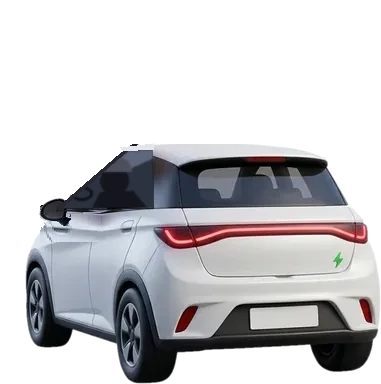
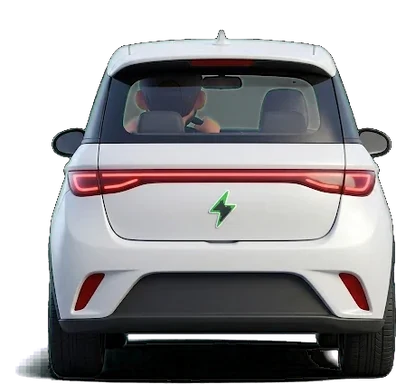
MARGOUSH 3D: BYD de Cepi visto de atrás con polvo, sin cartelitos de instrucciones, Messi Goku solo al elegir a Marine, boina del mini Facu
Claude-Session: https://claude.ai/code/session_015n5LzdVvbsG99sjKFqQKCk

diff --git a/3d/js/chase.js b/3d/js/chase.js
@@ -141,6 +141,12 @@ export function createChase({ game, input, audio, assets, renderer, banner, upda
     const CEPI_DRIVE = C.userData.key;
     const mark = mk(new T.RingGeometry(0.55, 0.78, 28), new T.MeshBasicMaterial({ color: L('#ff4d5e'), transparent: true, opacity: 0.85, depthWrite: false }));
     mark.rotation.x = -Math.PI / 2; mark.visible = false; mark.renderOrder = 2;
+    // Polvo que levantan las ruedas traseras del BYD (va de atrás: las ruedas no se ven girar, el polvo vende la velocidad)
+    const dustTex = canvasTex(64, 64, (g) => { const r = g.createRadialGradient(32, 32, 2, 32, 32, 30); r.addColorStop(0, 'rgba(236,222,214,.85)'); r.addColorStop(1, 'rgba(236,222,214,0)'); g.fillStyle = r; g.fillRect(0, 0, 64, 64); }, 1, 1);
+    const dustMat = keep(new T.SpriteMaterial({ map: dustTex, transparent: true, depthWrite: false }));
+    const dust = [];
+    for (let i = 0; i < 28; i++) { const sp = new T.Sprite(dustMat.clone()); keep(sp.material); sp.visible = false; scene.add(sp); dust.push({ sp, t: 9, life: 0.6, v: new T.Vector3() }); }
+    let dustAt = 0, dustI = 0;
     const ball = mk(new T.SphereGeometry(0.2, 14, 10), new T.MeshLambertMaterial({ color: L('#e6f04a'), emissive: L('#6a6a00') })); ball.visible = false;
     const track = buildTrack();
     const obs = track.obstacles.map(o => ({ ...o, ...OBST[o.kind], m: sprite(OBST[o.kind].tex, OBST[o.kind].h, OBST[o.kind].slip ? 0.6 : 0.9), dead: false, vy: 0, y: 0, spin: 0 }));
@@ -168,7 +174,6 @@ export function createChase({ game, input, audio, assets, renderer, banner, upda
       setTex(C, pose === 'drive' ? CEPI_DRIVE : pose === 'windup' ? 'chase_cepi_windup' : pose === 'throw' ? 'chase_cepi_throw' : 'chase_cepi_dead');
     };
     game.state = 'chase';
-    banner('¡SE ESCAPA CEPI!', 'Se lleva la llave en su BYD. Doblá con el joystick, SALTO para saltar, 👊 rompe cosas.', 3.6);
 
     function hurt(txt) {
       if (inv > 0 || dashT > 0 || powT > 0) return;
@@ -263,7 +268,7 @@ export function createChase({ game, input, audio, assets, renderer, banner, upda
         const want = stunT > 0 ? 6 : 8 + Math.sin(t * 0.7) * 1.8;
         gap += (want - gap) * dt * 0.8;
         cx += (Math.sin(t * 0.55) * 2.3 - cx) * dt * 1.2;
-        if (!shot && stunT <= 0 && windT <= 0) { throwT -= dt; if (throwT <= 0) { windT = CHASE.windup; hintE.classList.remove('hidden'); cepiTo('windup'); } }
+        if (!shot && stunT <= 0 && windT <= 0) { throwT -= dt; if (throwT <= 0) { windT = CHASE.windup; cepiTo('windup'); } } // sin cartel: se ve a Cepi asomarse y la marca roja en el piso
         if (windT > 0) {
           windT -= dt;
           if (windT <= 0) {
@@ -335,6 +340,25 @@ export function createChase({ game, input, audio, assets, renderer, banner, upda
       const meta = assets.meta(C.userData.key), w0 = C.userData.h * meta.w / meta.h;
       C.scale.set(w0 * (1 - 0.22 * Math.sin(Math.PI * k)), C.userData.h * (1 + 0.06 * Math.sin(Math.PI * k)), 1);
       C.rotation.z = parked ? 0 : carTilt;
+      // polvo de las ruedas (más con más velocidad; nada estacionado)
+      dustAt -= dt;
+      if (!parked && dt > 0 && dustAt <= 0) {
+        dustAt = 0.06;
+        const wHalf = C.userData.h * assets.meta(C.userData.key).w / assets.meta(C.userData.key).h * 0.36;
+        for (const sd of [-1, 1]) {
+          const d = dust[dustI++ % dust.length];
+          d.t = 0; d.life = 0.5 + Math.random() * 0.25; d.sp.visible = true;
+          d.sp.position.set(cx + sd * wHalf + (Math.random() - 0.5) * 0.3, 0.25, carZ + 0.5);
+          d.v.set(sd * (0.6 + Math.random() * 0.8), 0.6 + Math.random() * 0.6, v * 0.35 + 2);
+        }
+      }
+      for (const d of dust) {
+        if (!d.sp.visible) continue;
+        d.t += dt; const k = d.t / d.life;
+        if (k >= 1) { d.sp.visible = false; continue; }
+        d.sp.position.addScaledVector(d.v, dt);
+        const sc = 0.5 + k * 1.4; d.sp.scale.set(sc, sc, 1); d.sp.material.opacity = 0.55 * (1 - k);
+      }
       for (const o of obs) if (o.m.visible) { place(o.m, o.x, o.y, -o.s); if (o.dead && o.m.userData.sh) o.m.userData.sh.visible = false; }
       for (const p of picks) if (!p.got) { place(p.m, p.x, p.y + Math.sin(t * 4 + p.s) * 0.15, -p.s); p.m.rotation.y = Math.sin(t * 3 + p.s) * 0.6; }
       for (let i = pops.length - 1; i >= 0; i--) {

diff --git a/3d/js/main.js b/3d/js/main.js
@@ -256,7 +256,6 @@ function endIntro() {
   game.state = 'playing';
   audio.music(game.heroId);
   input.reset();
-  game.banner('¡SALVÁ A MARGOT!', 'Seguí la calle hasta el galpón de BIG CHAKY →');
 }
 
 // ---------- zonas ----------
@@ -266,8 +265,7 @@ function openGate(i) {
   g.open = true;
   g.t = 0;
   fx.shake(0.35);
-  // Menos carteles: un aviso chico arriba del héroe en vez de un cartel
-  if (game.hero) fx.popup(game.hero.actor.position.clone().setY(3.3), '¡DESPEJADO! SEGUÍ →', '#7ee0c3', { size: 24, life: 1.4, rise: 0.4 });
+  // Sin carteles de instrucciones: el portón que se derrumba ya dice que se puede seguir
   game.ctx.audio?.sfx('crate');
   game.ctx.audio?.sfx('clear');
 }
@@ -278,15 +276,7 @@ function updateZones() {
   for (const g of world.gates) {
     if (!g.open && hp.x > g.x) {
       hp.x = g.x - 1;
-      game.banner('🚧 PASO CERRADO', 'Primero despejá la zona: la banda de BIG CHAKY te espera.');
       break;
-    }
-  }
-  // Al llegar a un portón cerrado, explica que no se salta: hay que despejar la zona
-  for (const g of world.gates) {
-    if (!g.open && Math.abs(hp.x - g.x) < 1.2 && game.time - (game.gateHintAt ?? -99) > 6) {
-      game.gateHintAt = game.time;
-      game.banner('🚧 PASO CERRADO', 'Primero despejá la zona: la banda de BIG CHAKY te espera.');
     }
   }
   const x = hp.x;
@@ -302,8 +292,8 @@ function updateZones() {
       }
       game.waves[w.id] = 'active';
       game.enemies.spawnWave(w.id);
+      // Sin cartel de título por tanda; Facu sigue tirando sus comentarios
       if (w.facu) game.facu.say(w.facu, 3.4);
-      else game.banner(w.title, w.text);
       break;
     }
     if (st === 'active' && game.enemies.alive() === 0) {
@@ -312,18 +302,12 @@ function updateZones() {
       if (w.endsLevel) {
         // El nivel termina al llegar al final de la calle, no apenas cae el último malo
         game.levelExit = true;
-        game.banner('¡LE CONCEPT ES NUESTRO!', 'Seguí hasta el final de la calle para pasar a Francia →', 3.2);
       }
     }
   }
   if (game.levelExit && game.level < LEVELS.length) {
     const end = LEVELS[game.level - 1].maxX - 2.5;
     if (x >= end) { game.levelExit = false; startTransition(); return; }
-    // Flecha que te marca el camino, cada tanto
-    if (game.time - (game.exitHintAt ?? -99) > 2.2) {
-      game.exitHintAt = game.time;
-      fx.popup(new THREE.Vector3(Math.min(end, x + 4), 2.6, hp.z), 'FRANCIA →', '#7ee0c3', { size: 26, life: 1.6, rise: 0.2 });
-    }
   }
   const last = WAVES[WAVES.length - 1];
   if (!game.boss && game.level === 2 && game.waves[last.id] === 'cleared' && x > world.galponX + 6) spawnBoss();
@@ -396,14 +380,12 @@ function endTransition() {
   $('#level-card').classList.remove('travel');
   game.state = 'playing';
   input.reset();
-  game.banner('NIVEL 2: FRANCIA', 'Bienvenue en France · seguí hasta el galpón de BIG CHAKY →');
 }
 game.startTransition = startTransition;
 
 function spawnBoss() {
   game.boss = createBoss(game.ctx, world.bounds.maxX - 14);
   game.banner('👑 BIG CHAKY', '«¡De acá no pasa nadie! ¡La nena se queda conmigo!»');
-  game.banner('CÓMO GANARLE', 'Casi no siente los golpes: pegale cuando brilla (después de embestir o pisotear).', 3.6);
   game.ctx.audio?.music('boss');
   game.ctx.audio?.sfx('roar');
 }

diff --git a/3d/js/facu.js b/3d/js/facu.js
@@ -96,8 +96,21 @@ export function createFacu(ctx) {
   hole.add(rim, pit); hole.visible = false; scene.add(hole);
   const baguette = new THREE.Sprite(new THREE.SpriteMaterial({ map: emojiTex('🥖'), transparent: true, depthWrite: false }));
   baguette.scale.set(0.9, 0.9, 1); baguette.visible = false; scene.add(baguette);
-  const beret = new THREE.Mesh(new THREE.CylinderGeometry(0.32, 0.36, 0.12, 18), new THREE.MeshLambertMaterial({ color: 0x1b1b24 }));
-  beret.visible = false; scene.add(beret);
+  // Boina francesa dibujada (antes era un cilindro que con la luz se veía como un cuadradito gris)
+  const beretTex = (() => {
+    const c = document.createElement('canvas'); c.width = 256; c.height = 128;
+    const g = c.getContext('2d');
+    g.translate(128, 74); g.rotate(-0.12);
+    const body = g.createRadialGradient(-28, -22, 6, 0, 0, 110);
+    body.addColorStop(0, '#4a4658'); body.addColorStop(0.45, '#22202c'); body.addColorStop(1, '#0d0c12');
+    g.fillStyle = body; g.beginPath(); g.ellipse(6, 4, 108, 58, 0, Math.PI * 1.02, Math.PI * 2.02); g.quadraticCurveTo(70, 26, 0, 24); g.quadraticCurveTo(-80, 24, -102, 2); g.fill();
+    g.fillStyle = '#121018'; g.beginPath(); g.ellipse(0, 20, 86, 10, 0, 0, Math.PI * 2); g.fill();     // borde que calza en la cabeza
+    g.fillStyle = 'rgba(255,255,255,0.14)'; g.beginPath(); g.ellipse(-30, -20, 40, 9, -0.2, 0, Math.PI * 2); g.fill(); // brillo de la lana
+    g.strokeStyle = '#0d0c12'; g.lineWidth = 7; g.lineCap = 'round'; g.beginPath(); g.moveTo(10, -38); g.quadraticCurveTo(16, -52, 26, -54); g.stroke(); // piquito
+    const t = new THREE.CanvasTexture(c); t.encoding = THREE.sRGBEncoding; return t;
+  })();
+  const beret = new THREE.Sprite(new THREE.SpriteMaterial({ map: beretTex, transparent: true, depthWrite: false }));
+  beret.scale.set(0.92, 0.5, 1); beret.renderOrder = 3; beret.visible = false; scene.add(beret);
 
   let act = null;          // aparición en curso: { kind, t, ... }
   let jokeIdx = 0, idleT = 0, talkT = 0;
@@ -197,7 +210,7 @@ export function createFacu(ctx) {
         actor.lift = t < 0.35 ? Math.sin(t / 0.35 * Math.PI) * 0.7 : Math.abs(Math.sin(idleT * 5)) * 0.08;
         actor.lean = Math.sin(idleT * 4) * 0.08;
         const p = actor.position;
-        beret.position.set(p.x + 0.02, actor.lift + 1.93, p.z + 0.05);
+        beret.position.set(p.x + 0.03, actor.lift + 1.915, p.z + 0.12);
         baguette.position.set(p.x - 0.55, actor.lift + 1.05, p.z + 0.1);
         baguette.material.rotation = Math.sin(idleT * 6) * 0.5;
         if (t > 2.6) { fx.dust(p); end(); return; }

diff --git a/3d/js/props.js b/3d/js/props.js
@@ -87,7 +87,6 @@ export function createProps(ctx) {
       }
       if (n && world.secret.sealed && crates.list.every(c => c.broken)) {
         world.secret.sealed = false;
-        game.banner('PASAJE DEL CORTADO', '¡Se abrió el pasaje! Entrá a ver qué hay.');
       }
       return n;
     },
@@ -103,18 +102,12 @@ export function createProps(ctx) {
           if (b.kind === 'poison') {
             game.psycho.start();
             fx.popup(b.sprite.position.clone().setY(2), '¡UFF! 🌀', '#c084fc', { size: 26, life: 1.1 });
-            game.banner('🍄 ¡HONGO RARO!', 'Se te va la cabeza un ratito… pero no pasa nada.', 3);
             ctx.audio?.sfx('secret');
           } else {
             h.hp = Math.min(h.hpMax, h.hp + 1);
             game.score.addPickup('bottle');
             fx.popup(b.sprite.position.clone().setY(2), '+50 ❤', '#ff9fb0', { size: 22 });
             ctx.audio?.sfx('pickup');
-            // Chiste: Marine no dice «merci beaucoup», dice «¡Messi Goku!»
-            if (game.heroId === 'marine') {
-              fx.popup(b.sprite.position.clone().setY(2.8), '¡MESSI GOKU! ⚽🐉', '#ffd166', { size: 24, life: 1.2 });
-              ctx.audio?.messiGoku();
-            }
           }
         }
       }

diff --git a/3d/js/enemies.js b/3d/js/enemies.js
@@ -572,9 +572,9 @@ export function createEnemies(ctx) {
       for (const d of wave ? wave.spawns : []) {
         const x = Math.min(lb.maxX - 1, Math.max(lb.minX + 1, hx + d.dx));
         spawn(x, d.dz, d.kind);
-        // Cada amigo se presenta con su cartel la primera vez que aparece en la partida
+        // Sin carteles de presentación (se entiende jugando); solo el mini-jefe (Cepi «el Niño») tiene su entrada
         const intro = INTROS[d.kind];
-        if (intro && (!introduced.has(d.kind) || KINDS[d.kind].miniBoss)) { introduced.add(d.kind); game.banner(intro[0], intro[1], 3.2); }
+        if (intro && KINDS[d.kind]?.miniBoss) { introduced.add(d.kind); game.banner(intro[0], intro[1], 3.2); }
         if (KINDS[d.kind]?.miniBoss) { miniBossBar(list[list.length - 1]); ctx.audio?.sfx('boo'); }
       }
     },

diff --git a/3d/js/boss.js b/3d/js/boss.js
@@ -209,7 +209,6 @@ export function createBoss(ctx, x) {
     b.phase = 2;
     fx.flash('#ff4d5e', 0.35);
     fx.shake(0.5);
-    game.banner('👑 BIG CHAKY — ¡FURIOSO!', 'Pisotea más seguido: saltá la onda y pegale cuando queda expuesto.');
     ctx.audio?.sfx('roar');
   }
 

diff --git a/tools/erase_ball.py b/tools/erase_ball.py
@@ -1,0 +1,40 @@
+"""Borra la pelota de pádel dibujada en un sprite (la pelota la tira el juego aparte).
+
+Uso: python3 -I tools/erase_ball.py <sprite.webp> [<sprite.webp> ...]
+Busca manchas amarillo-verdosas grandes y las vuelve transparentes (con un margen de 3 px).
+"""
+import sys
+import numpy as np
+from PIL import Image
+from scipy import ndimage
+
+for path in sys.argv[1:]:
+    im = Image.open(path).convert('RGBA')
+    a = np.array(im).astype(int)
+    r, g, b, al = a[..., 0], a[..., 1], a[..., 2], a[..., 3]
+    ball = (al > 40) & (g > 150) & (r > 130) & (b < 120) & (g > b + 70) & (abs(r - g) < 70)
+    lab, n = ndimage.label(ball)
+    keep = np.zeros_like(ball)
+    for i in range(1, n + 1):
+        comp = lab == i
+        if comp.sum() > 40: keep |= comp
+    # la pelota entera (incluye el borde y la línea blanca) + margen
+    filled = ndimage.binary_fill_holes(ndimage.binary_closing(keep, iterations=3))
+    mask = ndimage.binary_dilation(filled, iterations=3)
+    out = np.array(im)
+    out[mask, 3] = 0
+    # motitas sueltas que quedaron del brillo de la pelota
+    solid = out[..., 3] > 20
+    lab2, n2 = ndimage.label(solid)
+    if n2 > 1:
+        sizes = ndimage.sum(solid, lab2, range(1, n2 + 1))
+        for i, sz in enumerate(sizes):
+            if sz < 120: out[lab2 == i + 1, 3] = 0
+    # borde verde del recorte original (chroma): se lo lleva al gris
+    rgb = out[..., :3].astype(int)
+    edge = ndimage.binary_dilation(out[..., 3] < 200, iterations=4) & (out[..., 3] > 0)
+    green = edge & (rgb[..., 1] > rgb[..., 0] + 25) & (rgb[..., 1] > rgb[..., 2] + 25)
+    cap = np.maximum(rgb[..., 0], rgb[..., 2])
+    out[..., 1] = np.where(green, cap, out[..., 1])
+    Image.fromarray(out, 'RGBA').save(path, 'WEBP', quality=90, method=6)
+    print(path, int(mask.sum()), 'px borrados')

diff --git a/PROJECT_STATUS.md b/PROJECT_STATUS.md
@@ -171,3 +171,10 @@ Registro inicial: 2026-10-15. No constituye nueva prueba funcional.
 ## Actualización 2026-11-18 (noche, 2) · Asfalto porteño
 - Piso de Buenos Aires pintado por código a 64 px/m: manchas de tono, huellas lustradas de ruedas, parches de bacheo con borde irregular, fisuras, tapa de cloaca, cordón cuneta con rejilla y línea central gastada. Sendas peatonales en x=74 (parada) y x=124 (antes de Le Concept).
 - Pruebas: `npm test` 31 ok; e2e level1_look, perf, mobile, traps, level, gates y layout en verde.
+
+## Actualización 2026-11-18 (noche, 3) · BYD de atrás, sin cartelitos, boina
+- BYD de Cepi regenerado en Flow visto exactamente de atrás (manejando / preparando el saque / tirando), recortado del verde con el mismo marco para que no salte; sin pelota dibujada (`tools/erase_ball.py`). Polvo de las ruedas traseras.
+- Sin carteles de instrucciones: títulos de tanda, «¡DESPEJADO! SEGUÍ →», «FRANCIA →», «PASO CERRADO», presentaciones de malos (queda la de Cepi mini-jefe), consejos del jefe, instrucciones de la persecución y «¡Cepi prepara el saque!». Quedan los chistes y la historia.
+- «¡Messi Goku!» de Marine solo al elegirla (se sacó de la cerveza).
+- Mini Facu en Francia: boina dibujada (antes era un cilindro que se veía como un cuadradito gris).
+- Pruebas: `npm test` 31 ok; toda la carpeta e2e en verde (Chrome sin pantalla).
